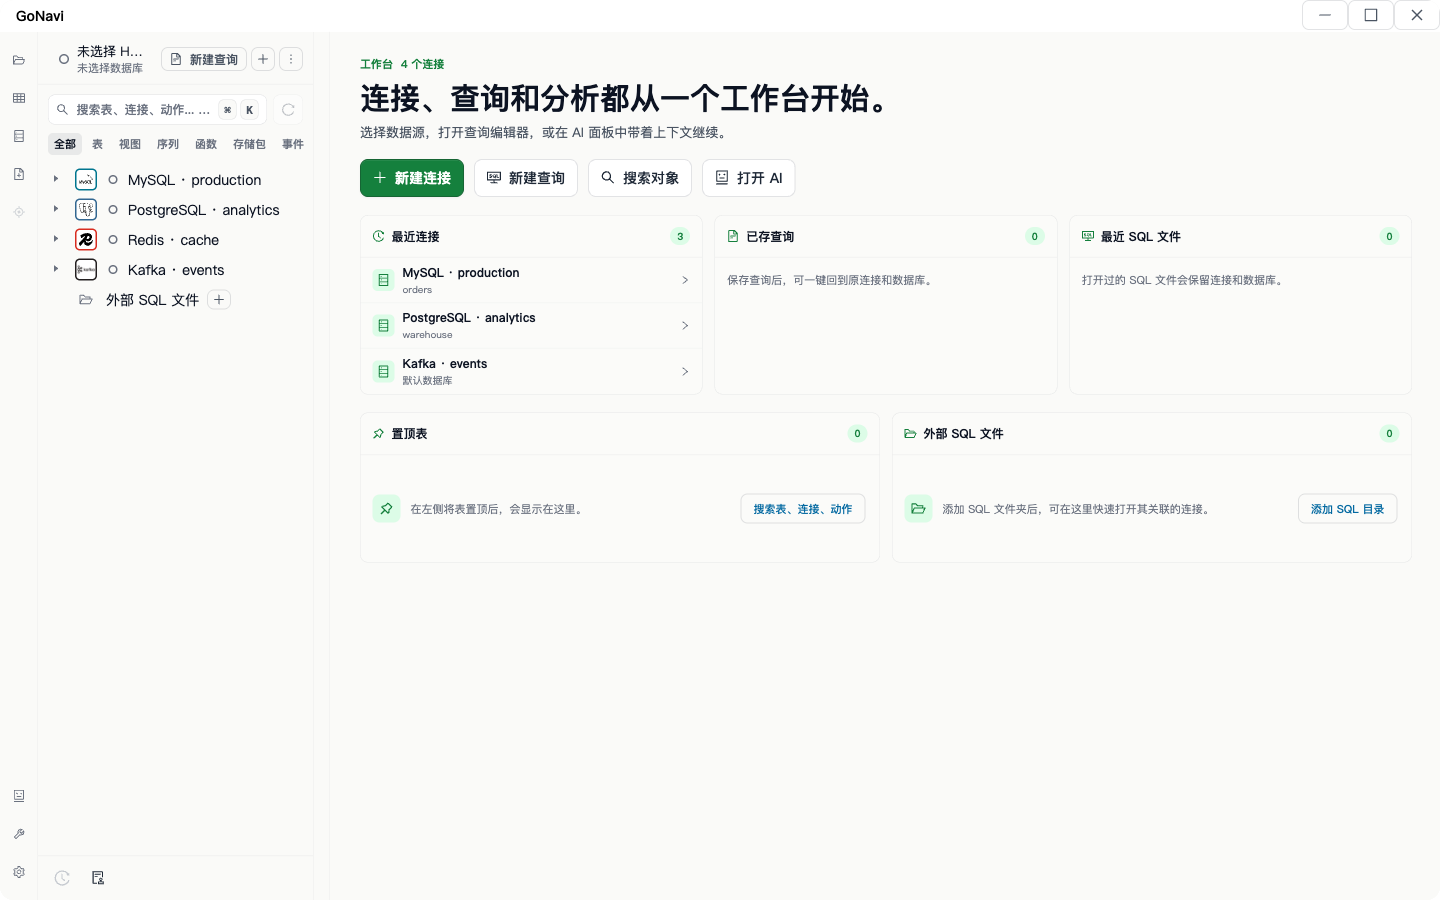
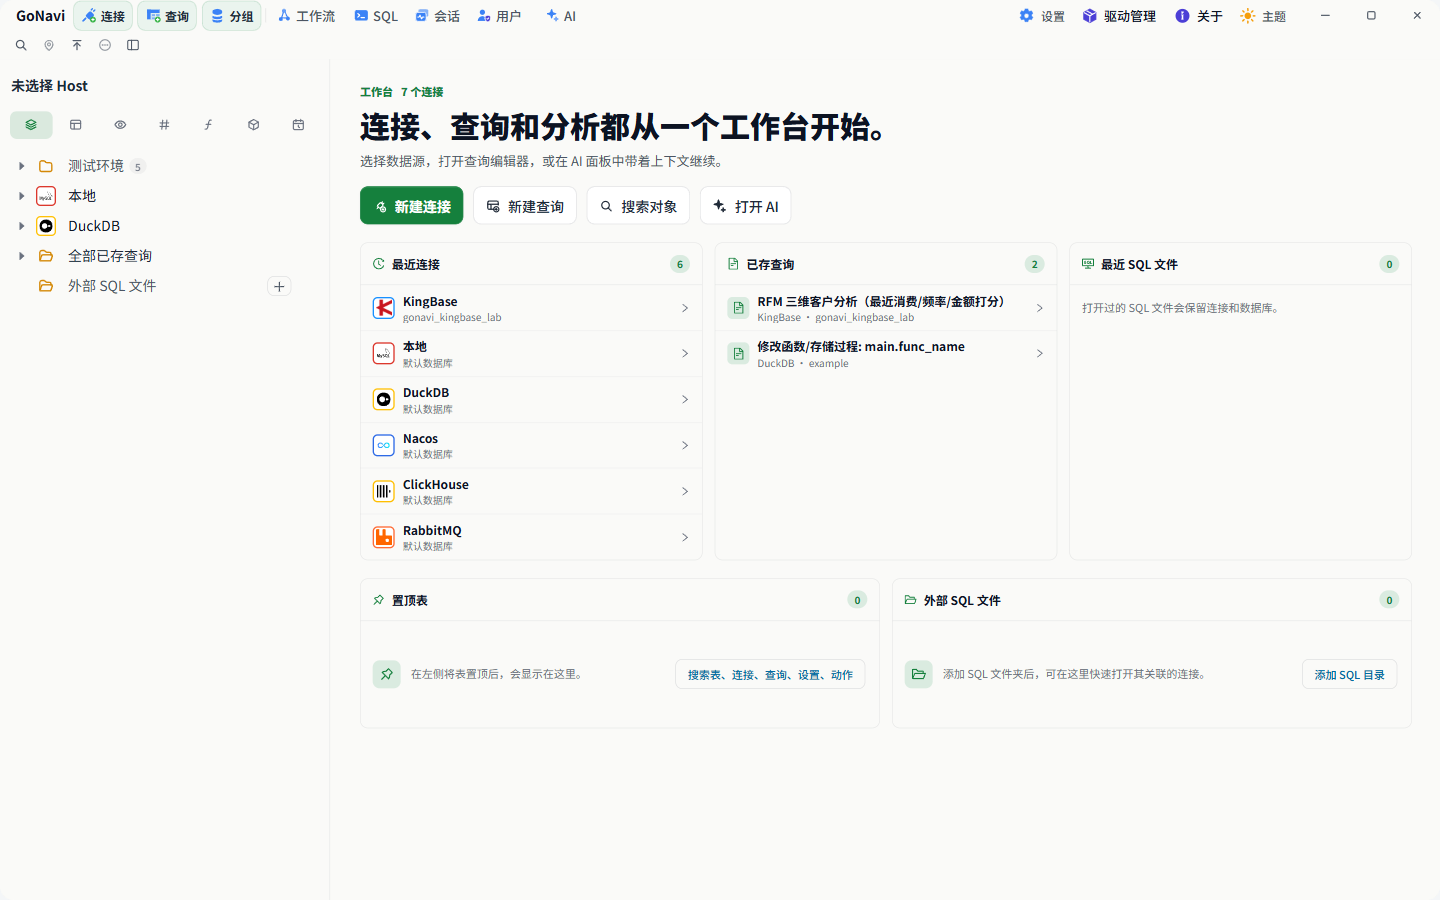
📝 docs(readme): 更新产品截图并补充图注
- 截图替换：以最新 dev 构建重拍首页工作台、AI 助手、新建连接三张旧图，文件名保持不变以兼容博客引用
- 截图新增：SQL 编辑器、AI 设置、主题设置、SQL 执行历史、SQL 审计中心共五张，统一 1440×900 全窗口
- 版式调整：中英文 README 改为 4 行 × 2 列画廊，每张补充中英文图注与 alt 文案
- 说明修正：移除“真实桌面截图”表述，改为“取自最新 dev 构建”，并注明演示数据来自本地实验库
- 隐私处理：截图不含连接地址、密钥与供应商配置，库名与分组名已脱敏

diff --git a/README.md b/README.md
@@ -101,19 +101,52 @@ Most database GUIs are Electron shells with megabytes of tax. GoNavi takes a dif
 
 ### Product screenshots
 
-Each image is a **full GoNavi application window**, scaled proportionally for README display.
+Each image is a **full GoNavi application window** (1440×900) captured from the latest dev build, scaled proportionally for README display.
 
-<p align="center">
-  <img src="https://raw.githubusercontent.com/Syngnat/GoNavi/dev/assets/screenshots/01-home-workbench.png" alt="GoNavi full window — connections, queries, and workbench" width="560" />
-  &nbsp;
-  <img src="https://raw.githubusercontent.com/Syngnat/GoNavi/dev/assets/screenshots/04-ai-assistant.png" alt="GoNavi full window — AI assistant with schema context" width="560" />
-</p>
+<table>
+  <tr>
+    <td align="center" width="50%">
+      <img src="https://raw.githubusercontent.com/Syngnat/GoNavi/dev/assets/screenshots/01-home-workbench.png" alt="GoNavi full window — workbench with connections, saved queries, and quick actions" width="100%" />
+      <br /><sub><b>Workbench</b> — connections, saved queries, quick actions</sub>
+    </td>
+    <td align="center" width="50%">
+      <img src="https://raw.githubusercontent.com/Syngnat/GoNavi/dev/assets/screenshots/02-query-editor.png" alt="GoNavi full window — SQL editor with result grid and object tree" width="100%" />
+      <br /><sub><b>SQL editor</b> — highlighting, result grid, object tree</sub>
+    </td>
+  </tr>
+  <tr>
+    <td align="center">
+      <img src="https://raw.githubusercontent.com/Syngnat/GoNavi/dev/assets/screenshots/04-ai-assistant.png" alt="GoNavi full window — AI assistant with schema context and generated SQL" width="100%" />
+      <br /><sub><b>AI assistant</b> — schema-aware chat, insert / run / preview generated SQL</sub>
+    </td>
+    <td align="center">
+      <img src="https://raw.githubusercontent.com/Syngnat/GoNavi/dev/assets/screenshots/05-ai-settings.png" alt="GoNavi full window — AI settings, built-in tools and recommended flows" width="100%" />
+      <br /><sub><b>AI settings</b> — built-in tools and recommended inspection flows</sub>
+    </td>
+  </tr>
+  <tr>
+    <td align="center">
+      <img src="https://raw.githubusercontent.com/Syngnat/GoNavi/dev/assets/screenshots/06-new-connection.png" alt="GoNavi full window — new connection data-source selector" width="100%" />
+      <br /><sub><b>New connection</b> — searchable, categorized data-source picker</sub>
+    </td>
+    <td align="center">
+      <img src="https://raw.githubusercontent.com/Syngnat/GoNavi/dev/assets/screenshots/08-sql-execution-history.png" alt="GoNavi full window — SQL execution history with filters and detail panel" width="100%" />
+      <br /><sub><b>SQL execution history</b> — filter, inspect, refill into the editor</sub>
+    </td>
+  </tr>
+  <tr>
+    <td align="center">
+      <img src="https://raw.githubusercontent.com/Syngnat/GoNavi/dev/assets/screenshots/09-sql-audit.png" alt="GoNavi full window — SQL audit center" width="100%" />
+      <br /><sub><b>SQL audit center</b> — desensitized SQL evidence across connections</sub>
+    </td>
+    <td align="center">
+      <img src="https://raw.githubusercontent.com/Syngnat/GoNavi/dev/assets/screenshots/07-settings-themes.png" alt="GoNavi full window — settings center with built-in themes" width="100%" />
+      <br /><sub><b>Settings</b> — built-in themes, fonts, workspace, and more</sub>
+    </td>
+  </tr>
+</table>
 
-<p align="center">
-  <img src="https://raw.githubusercontent.com/Syngnat/GoNavi/dev/assets/screenshots/06-new-connection.png" alt="GoNavi full window — new connection data-source selector" width="560" />
-</p>
-
-<p align="center"><sub>Real desktop captures · full window</sub></p>
+<p align="center"><sub>Sample data from a local lab database · connection addresses, keys, and provider configuration are not shown</sub></p>
 
 ---
 

diff --git a/README.zh-CN.md b/README.zh-CN.md
@@ -100,19 +100,52 @@
 
 ### 产品截图
 
-每张均为 **完整 GoNavi 应用窗口**，再通过 README 宽度控件等比例缩小展示。
+每张均为 **完整 GoNavi 应用窗口**（1440×900），取自最新 dev 构建，再通过 README 宽度控件等比例缩小展示。
 
-<p align="center">
-  <img src="https://raw.githubusercontent.com/Syngnat/GoNavi/dev/assets/screenshots/01-home-workbench.png" alt="GoNavi 全窗口 — 连接、查询与工作台" width="560" />
-  &nbsp;
-  <img src="https://raw.githubusercontent.com/Syngnat/GoNavi/dev/assets/screenshots/04-ai-assistant.png" alt="GoNavi 全窗口 — 带表结构上下文的 AI 助手" width="560" />
-</p>
+<table>
+  <tr>
+    <td align="center" width="50%">
+      <img src="https://raw.githubusercontent.com/Syngnat/GoNavi/dev/assets/screenshots/01-home-workbench.png" alt="GoNavi 全窗口 — 连接、已存查询与快捷操作的工作台" width="100%" />
+      <br /><sub><b>工作台</b> — 连接、已存查询、快捷操作</sub>
+    </td>
+    <td align="center" width="50%">
+      <img src="https://raw.githubusercontent.com/Syngnat/GoNavi/dev/assets/screenshots/02-query-editor.png" alt="GoNavi 全窗口 — SQL 编辑器、结果表格与对象树" width="100%" />
+      <br /><sub><b>SQL 编辑器</b> — 语法高亮、结果表格、对象树</sub>
+    </td>
+  </tr>
+  <tr>
+    <td align="center">
+      <img src="https://raw.githubusercontent.com/Syngnat/GoNavi/dev/assets/screenshots/04-ai-assistant.png" alt="GoNavi 全窗口 — 带表结构上下文并生成 SQL 的 AI 助手" width="100%" />
+      <br /><sub><b>AI 助手</b> — 感知表结构的对话，生成 SQL 可插入 / 执行 / 预览</sub>
+    </td>
+    <td align="center">
+      <img src="https://raw.githubusercontent.com/Syngnat/GoNavi/dev/assets/screenshots/05-ai-settings.png" alt="GoNavi 全窗口 — AI 设置中的内置工具与推荐流程" width="100%" />
+      <br /><sub><b>AI 设置</b> — 内置工具与推荐排查流程</sub>
+    </td>
+  </tr>
+  <tr>
+    <td align="center">
+      <img src="https://raw.githubusercontent.com/Syngnat/GoNavi/dev/assets/screenshots/06-new-connection.png" alt="GoNavi 全窗口 — 新建连接的数据源选择器" width="100%" />
+      <br /><sub><b>新建连接</b> — 可搜索、分类的数据源选择器</sub>
+    </td>
+    <td align="center">
+      <img src="https://raw.githubusercontent.com/Syngnat/GoNavi/dev/assets/screenshots/08-sql-execution-history.png" alt="GoNavi 全窗口 — 带筛选与详情面板的 SQL 执行历史" width="100%" />
+      <br /><sub><b>SQL 执行历史</b> — 筛选、查看详情、一键填回编辑器</sub>
+    </td>
+  </tr>
+  <tr>
+    <td align="center">
+      <img src="https://raw.githubusercontent.com/Syngnat/GoNavi/dev/assets/screenshots/09-sql-audit.png" alt="GoNavi 全窗口 — SQL 审计中心" width="100%" />
+      <br /><sub><b>SQL 审计中心</b> — 跨连接的脱敏 SQL 审计证据</sub>
+    </td>
+    <td align="center">
+      <img src="https://raw.githubusercontent.com/Syngnat/GoNavi/dev/assets/screenshots/07-settings-themes.png" alt="GoNavi 全窗口 — 含内置主题的设置中心" width="100%" />
+      <br /><sub><b>设置中心</b> — 内置主题、字体、工作区等</sub>
+    </td>
+  </tr>
+</table>
 
-<p align="center">
-  <img src="https://raw.githubusercontent.com/Syngnat/GoNavi/dev/assets/screenshots/06-new-connection.png" alt="GoNavi 全窗口 — 新建连接的数据源选择器" width="560" />
-</p>
-
-<p align="center"><sub>真实桌面全窗口截图</sub></p>
+<p align="center"><sub>演示数据来自本地实验库 · 连接地址、密钥与供应商配置均未展示</sub></p>
 
 ---
 
